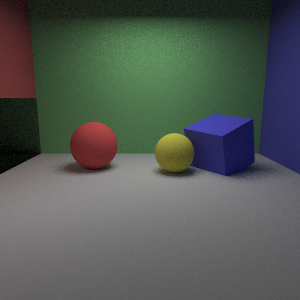
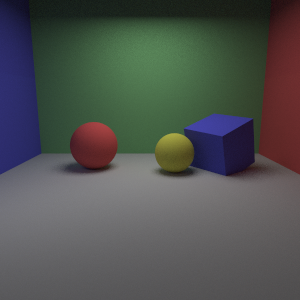
Mudanca nas medidas para a imagem final

Changed region(s): [[0.75, 0.0, 1.0, 0.6], [0.0, 0.0, 0.15, 0.6]]

diff --git a/main.py b/main.py
@@ -11,9 +11,9 @@ from concurrent.futures import ProcessPoolExecutor
 import multiprocessing as mp
 
 scene = Scene()
-scene.max_depth = 6
-scene.min_depth = 3
-scene.rr_probability = 0.7
+scene.max_depth = 10
+scene.min_depth = 5
+scene.rr_probability = 0.95
 
 # =========================
 # MATERIAIS
@@ -112,34 +112,36 @@ back_plane = Instance(
 scene.add_object(back_plane)
 
 # =========================
-# PLANO LATERAL ESQUERDO
+# PAREDE ESQUERDA
 # =========================
-left_plane = Instance(
-    Plane(
-        normal=[1, 0, 0],
+left_wall = Instance(
+    Box(
+        min_corner=[-0.01, 0.0, -6.0],
+        max_corner=[ 0.01, 4.0,  0.0],
         material=blue_material
     ),
     material=blue_material,
     transform=Transform(
-        translation=[-3, 2, -3]
+        translation=[-3.0, 0.0, 0.0]
     )
 )
-scene.add_object(left_plane)
+scene.add_object(left_wall)
 
 # =========================
-# PLANO LATERAL DIREITO
+# PAREDE DIREITA
 # =========================
-right_plane = Instance(
-    Plane(
-        normal=[-1, 0, 0],
+right_wall = Instance(
+    Box(
+        min_corner=[-0.01, 0.0, -6.0],
+        max_corner=[ 0.01, 4.0,  0.0],
         material=red_material
     ),
     material=red_material,
     transform=Transform(
-        translation=[3, 2, -3]
+        translation=[3.0, 0.0, 0.0]
     )
 )
-scene.add_object(right_plane)
+scene.add_object(right_wall)
 
 # =========================
 # LUZES RETANGULARES
@@ -149,8 +151,8 @@ main_light = AreaLight(
     normal=[0, -1, 0],
     width=2.0,
     height=2.0,
-    power=60,
-    samples=16
+    power=200,
+    samples=64
 )
 scene.add_light(main_light)
 
@@ -159,8 +161,8 @@ fill_light = AreaLight(
     normal=[0, -1, 0],
     width=1.0,
     height=1.0,
-    power=25,
-    samples=16
+    power=80,
+    samples=64
 )
 scene.add_light(fill_light)
 
@@ -186,7 +188,7 @@ camera = Camera(
 film = Film(
     width=300,
     height=300,
-    samples=64
+    samples=256
 )
 
 print("=" * 60)